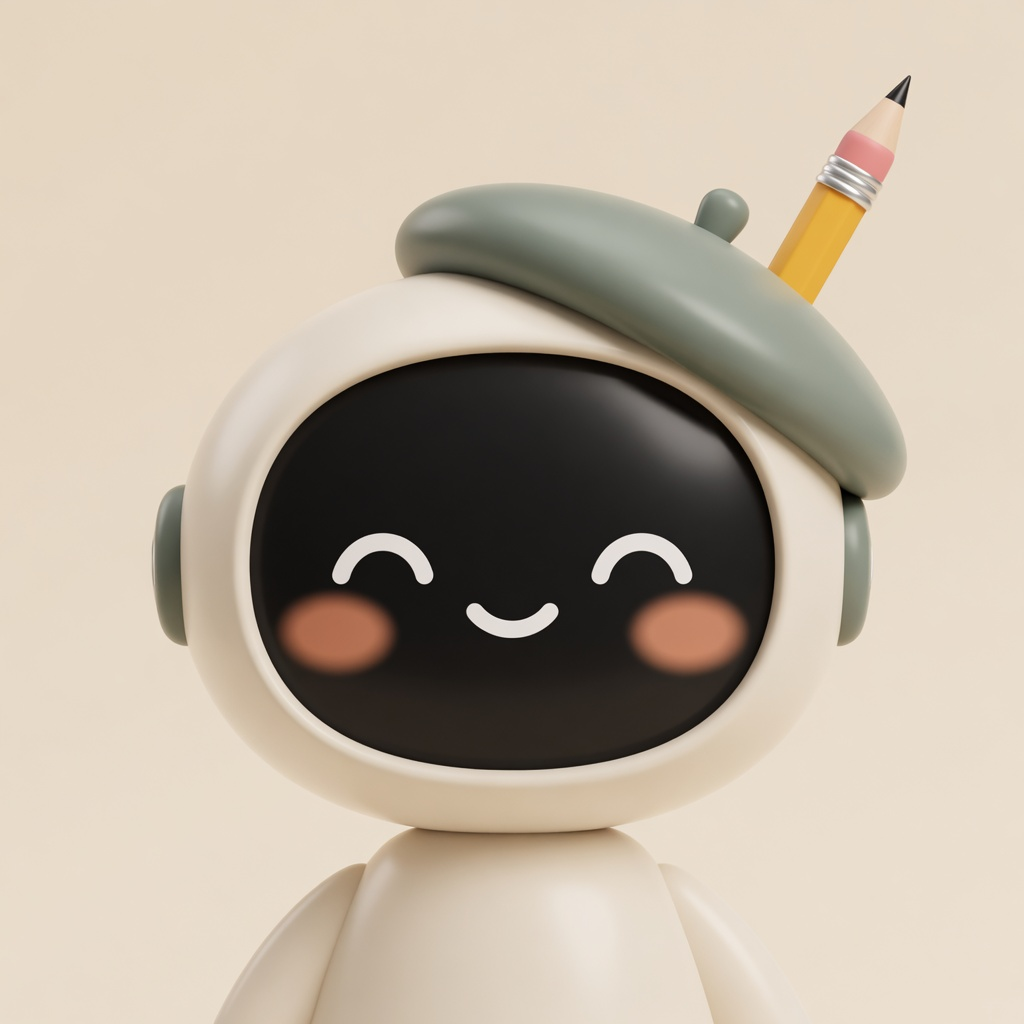
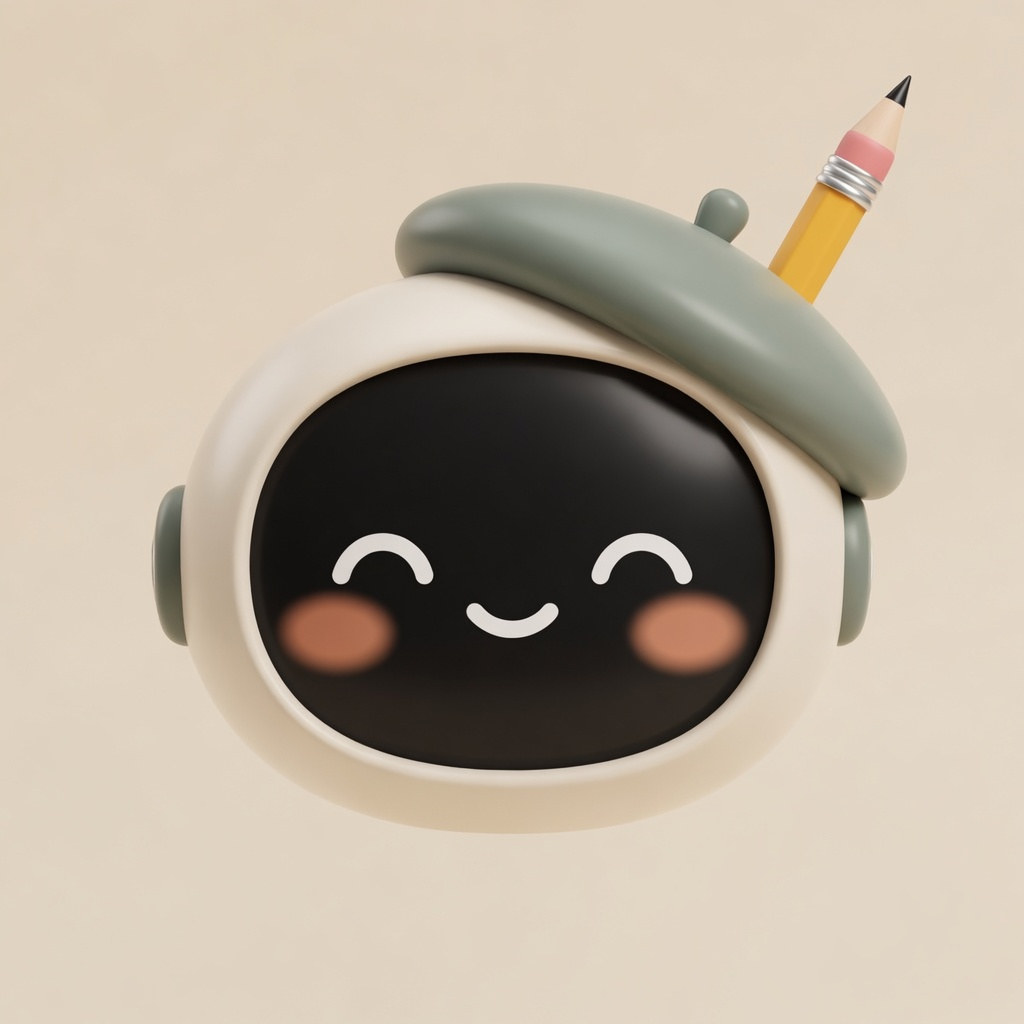
Unify Little Helper into one cute character silhouette
- Face-only head asset (no double torso)
- Head nests into belly; remove sticker ring
- Arms at shoulders; cream feet match body
- Chat padding clears overlapping face
- Bump to 0.2.28

Changed region(s): [[0.2188, 0.7812, 0.625, 1.0], [0.6875, 0.9688, 0.7188, 1.0]]

diff --git a/src/index.css b/src/index.css
@@ -5553,41 +5553,41 @@ html[data-reduce-motion='true'] *::after {
     inset 0 3px 0 rgba(255, 255, 255, 0.55);
 }
 
-/* Cute character — illustrated head + soft cream belly chat */
+/* One unified cute character: face nestled into plush body */
 .buddy-figure {
   position: relative;
   width: 100%;
-  max-width: 16rem;
+  max-width: 15.5rem;
   display: flex;
   flex-direction: column;
   align-items: center;
-  filter: drop-shadow(0 14px 22px rgba(26, 26, 26, 0.14));
+  filter: drop-shadow(0 16px 24px rgba(26, 26, 26, 0.14));
 }
 
 .buddy-figure.is-cute {
-  padding-bottom: 0.2rem;
+  padding-bottom: 0.35rem;
 }
 
+/* Face sits ON the body (snowman stack), no white sticker ring */
 .bf-head-wrap {
   position: relative;
   z-index: 6;
-  width: 7.75rem;
-  height: 7.75rem;
-  margin-bottom: -1.65rem;
+  width: 8.25rem;
+  height: 8.25rem;
+  margin-bottom: -2.85rem;
   border-radius: 50%;
   overflow: hidden;
-  background: #f5f1e9;
-  box-shadow:
-    0 8px 20px rgba(26, 26, 26, 0.12),
-    0 0 0 3px rgba(255, 255, 255, 0.85);
+  background: transparent;
+  box-shadow: 0 10px 18px rgba(26, 26, 26, 0.1);
 }
 
 .bf-head-img {
   display: block;
-  width: 100%;
-  height: 100%;
+  width: 118%;
+  height: 118%;
+  margin: -6% 0 0 -9%;
   object-fit: cover;
-  object-position: center 18%;
+  object-position: center 42%;
   pointer-events: none;
   user-select: none;
 }
@@ -5599,16 +5599,17 @@ html[data-reduce-motion='true'] *::after {
   opacity: 0.9;
   animation: bfHeartFloat 1.2s ease-out infinite;
   pointer-events: none;
+  z-index: 7;
 }
 
 .bf-heart-1 {
-  top: 0.5rem;
-  left: 0.35rem;
+  top: 0.65rem;
+  left: 0.2rem;
 }
 
 .bf-heart-2 {
-  top: 1.1rem;
-  right: 0.3rem;
+  top: 1.15rem;
+  right: 0.15rem;
   animation-delay: 0.25s;
   font-size: 0.7rem;
 }
@@ -5627,8 +5628,8 @@ html[data-reduce-motion='true'] *::after {
 
 .bf-bang {
   position: absolute;
-  top: 0.15rem;
-  right: 0.35rem;
+  top: 0.35rem;
+  right: 0.2rem;
   z-index: 8;
   font-size: 1.15rem;
   font-weight: 900;
@@ -5637,59 +5638,81 @@ html[data-reduce-motion='true'] *::after {
   animation: buddyWiggle 0.7s ease-in-out infinite;
 }
 
-/* Soft stick arms like the design-bot ref */
+/* Arms from shoulder line (where head meets body) */
 .bf-arm {
   position: absolute;
-  top: 8.1rem;
-  z-index: 4;
-  width: 0.55rem;
-  height: 2.6rem;
+  top: 7.15rem;
+  z-index: 5;
+  width: 0.5rem;
+  height: 2.35rem;
   border-radius: 999px;
-  background: linear-gradient(180deg, #2c2c2c, #121212);
+  background: linear-gradient(180deg, #2a2a2a, #141414);
 }
 
 .bf-arm-l {
-  left: 0.35rem;
-  transform: rotate(28deg);
+  left: 0.55rem;
+  transform: rotate(32deg);
+  transform-origin: top center;
 }
 
 .bf-arm-r {
-  right: 0.35rem;
-  transform: rotate(-28deg);
+  right: 0.55rem;
+  transform: rotate(-32deg);
+  transform-origin: top center;
 }
 
 .bf-hand {
   position: absolute;
-  bottom: -0.4rem;
+  bottom: -0.38rem;
   left: 50%;
-  width: 1.05rem;
-  height: 1.05rem;
-  margin-left: -0.525rem;
+  width: 1rem;
+  height: 1rem;
+  margin-left: -0.5rem;
   border-radius: 50%;
   background: radial-gradient(circle at 35% 30%, #fffcf6, #ebe4d6);
-  box-shadow: 0 2px 5px rgba(26, 26, 26, 0.12);
+  box-shadow: 0 2px 5px rgba(26, 26, 26, 0.1);
 }
 
-/* Soft plush belly = chat */
+/* Plush body — same cream family as face so it reads as one creature */
 .bf-belly {
   position: relative;
   z-index: 2;
-  width: 15.25rem;
-  height: 16.5rem;
+  width: 14.75rem;
+  height: 15.75rem;
   max-width: 100%;
   display: flex;
   flex-direction: column;
   padding: 0;
-  border-radius: 50% 50% 46% 46% / 48% 48% 48% 48%;
+  /* Soft oval body, slightly wider at middle */
+  border-radius: 50% 50% 46% 46% / 46% 46% 50% 50%;
   background:
-    radial-gradient(ellipse 80% 55% at 50% 18%, #fffef9 0%, transparent 55%),
-    linear-gradient(175deg, #fbf8f1 0%, #f3efe6 45%, #e8e1d2 100%);
-  border: 3px solid rgba(200, 190, 170, 0.55);
+    radial-gradient(ellipse 70% 40% at 50% 22%, #fffefb 0%, transparent 60%),
+    linear-gradient(175deg, #fbf8f1 0%, #f3efe6 50%, #e8e1d2 100%);
+  border: 2.5px solid rgba(210, 200, 180, 0.65);
   box-shadow:
-    0 16px 36px rgba(26, 26, 26, 0.14),
-    inset 0 4px 0 rgba(255, 255, 255, 0.85),
-    inset 0 -16px 30px rgba(180, 165, 140, 0.12);
+    0 14px 32px rgba(26, 26, 26, 0.12),
+    inset 0 3px 0 rgba(255, 255, 255, 0.9),
+    inset 0 -14px 28px rgba(180, 165, 140, 0.1);
   overflow: hidden;
+}
+
+/* Soft collar under chin so head + body blend */
+.bf-belly::after {
+  content: '';
+  position: absolute;
+  top: -0.15rem;
+  left: 50%;
+  z-index: 3;
+  width: 4.2rem;
+  height: 1.1rem;
+  margin-left: -2.1rem;
+  border-radius: 50%;
+  background: radial-gradient(
+    ellipse at 50% 100%,
+    rgba(243, 239, 230, 0.95) 0%,
+    transparent 70%
+  );
+  pointer-events: none;
 }
 
 .bf-belly::before {
@@ -5698,7 +5721,7 @@ html[data-reduce-motion='true'] *::after {
   inset: 0;
   border-radius: inherit;
   pointer-events: none;
-  box-shadow: inset 0 0 36px 10px rgba(180, 165, 140, 0.1);
+  box-shadow: inset 0 0 32px 8px rgba(180, 165, 140, 0.09);
   z-index: 1;
 }
 
@@ -5709,8 +5732,9 @@ html[data-reduce-motion='true'] *::after {
   min-height: 0;
   display: flex;
   flex-direction: column;
-  padding: 2.15rem 1.5rem 1.25rem;
-  margin: 0.4rem 0.65rem 0.55rem;
+  /* Extra top pad so chat clears the overlapping head */
+  padding: 2.85rem 1.45rem 1.2rem;
+  margin: 0.35rem 0.7rem 0.5rem;
   overflow: hidden;
 }
 
@@ -5858,17 +5882,18 @@ html[data-reduce-motion='true'] *::after {
 .bf-legs {
   display: flex;
   justify-content: center;
-  gap: 1.1rem;
-  margin-top: -0.45rem;
+  gap: 1.25rem;
+  margin-top: -0.55rem;
   z-index: 1;
 }
 
 .bf-leg {
-  width: 0.95rem;
-  height: 0.95rem;
-  border-radius: 50%;
-  background: linear-gradient(160deg, #2c2c2c, #111);
-  box-shadow: 0 3px 6px rgba(26, 26, 26, 0.18);
+  width: 1.05rem;
+  height: 0.85rem;
+  border-radius: 50% 50% 45% 45%;
+  background: radial-gradient(circle at 40% 30%, #fffcf6, #e0d8c8);
+  border: 1.5px solid rgba(200, 190, 170, 0.55);
+  box-shadow: 0 3px 6px rgba(26, 26, 26, 0.1);
 }
 
 .buddy-figure.is-cute.mood-idle:not(.no-motion) .bf-head-wrap,